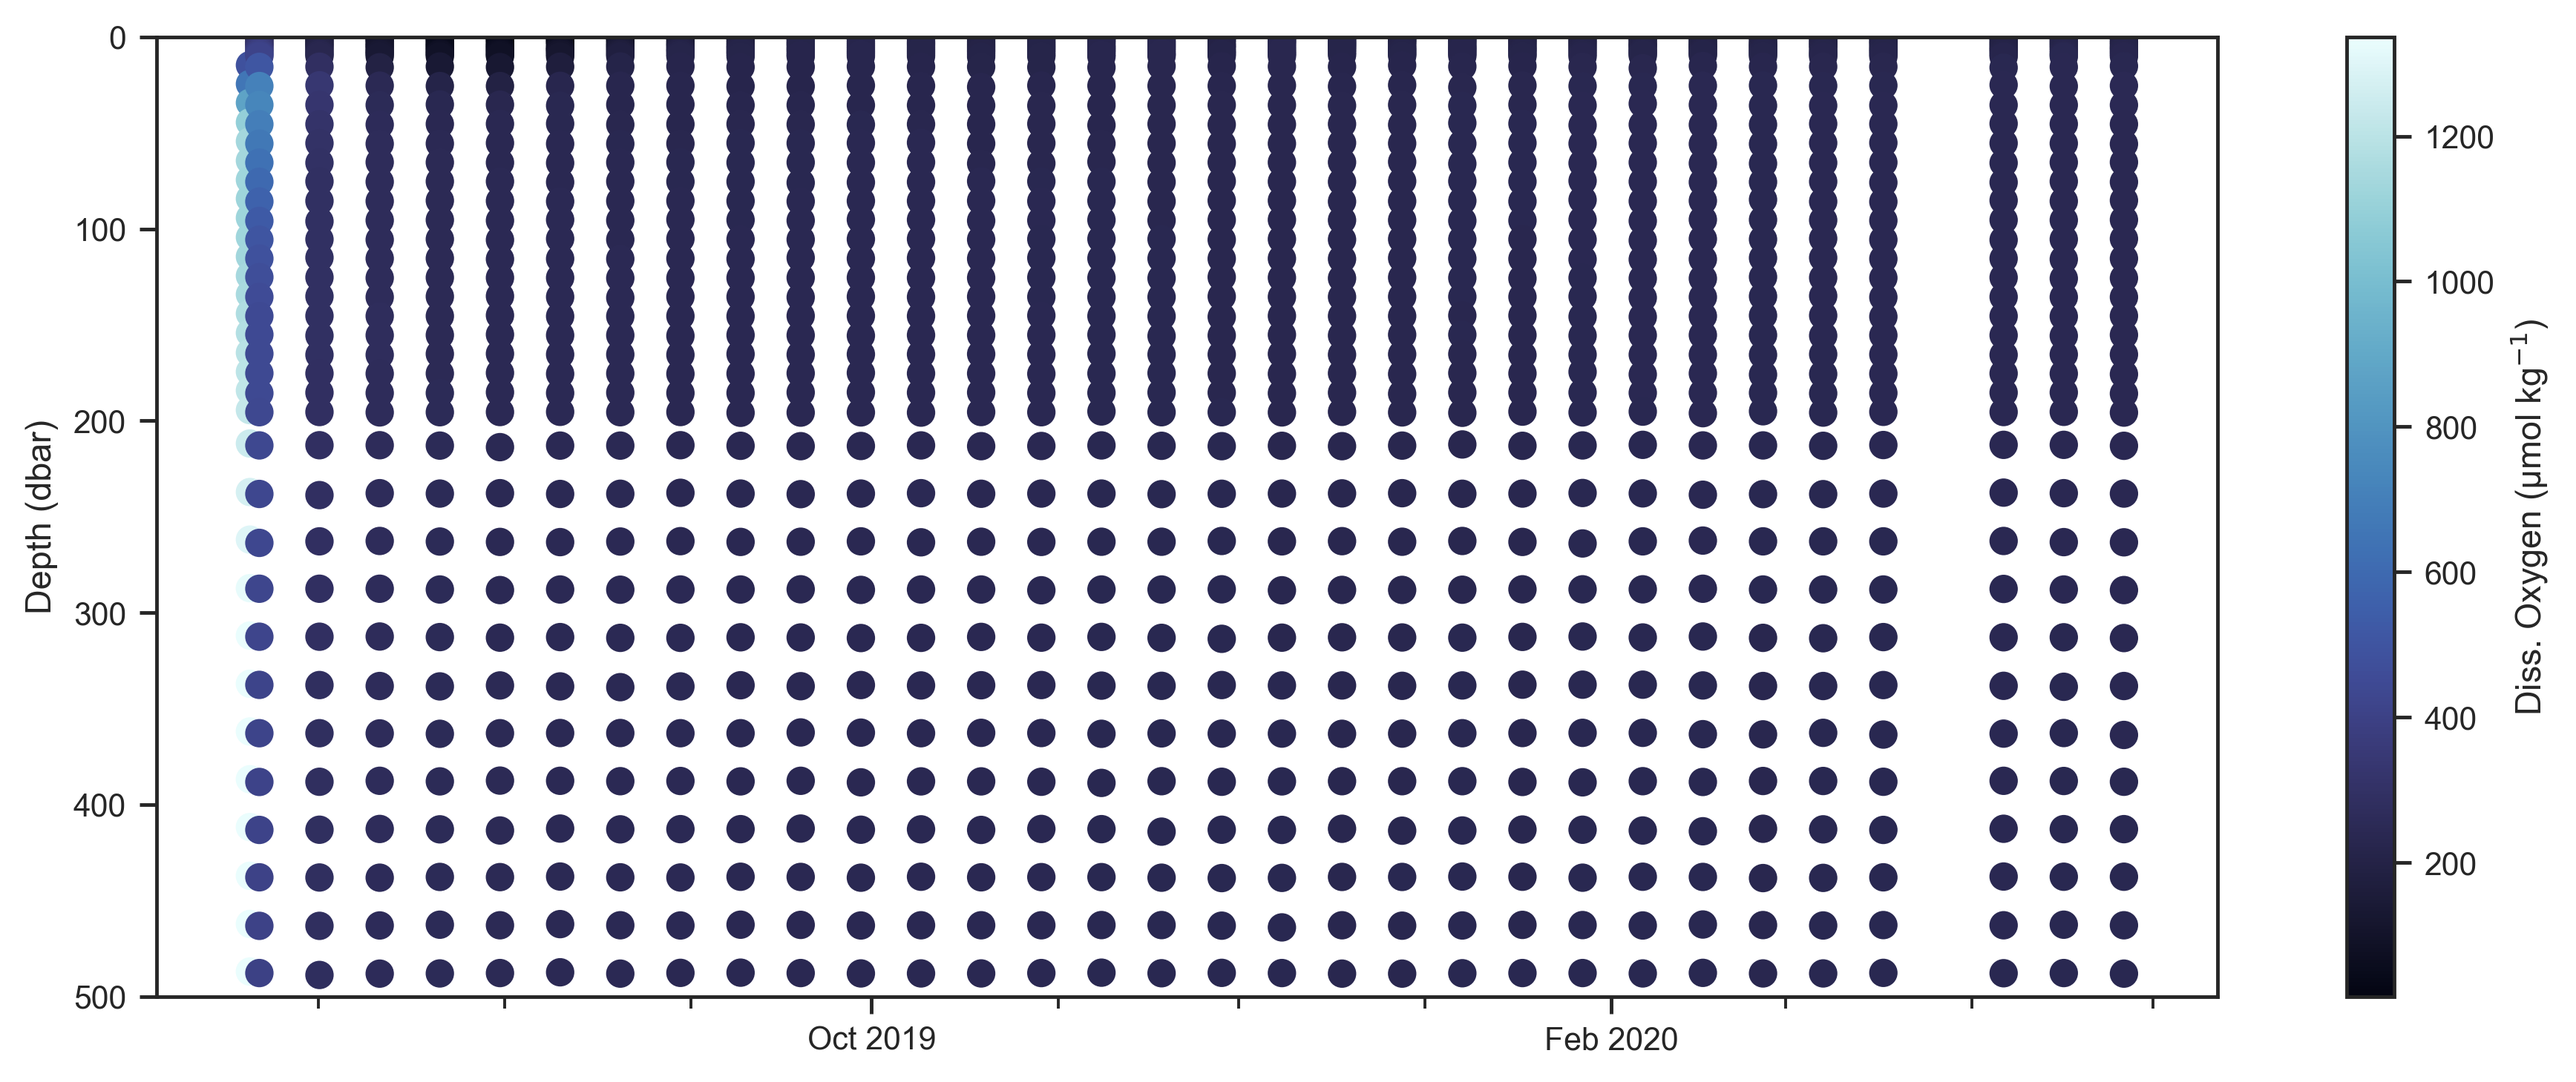
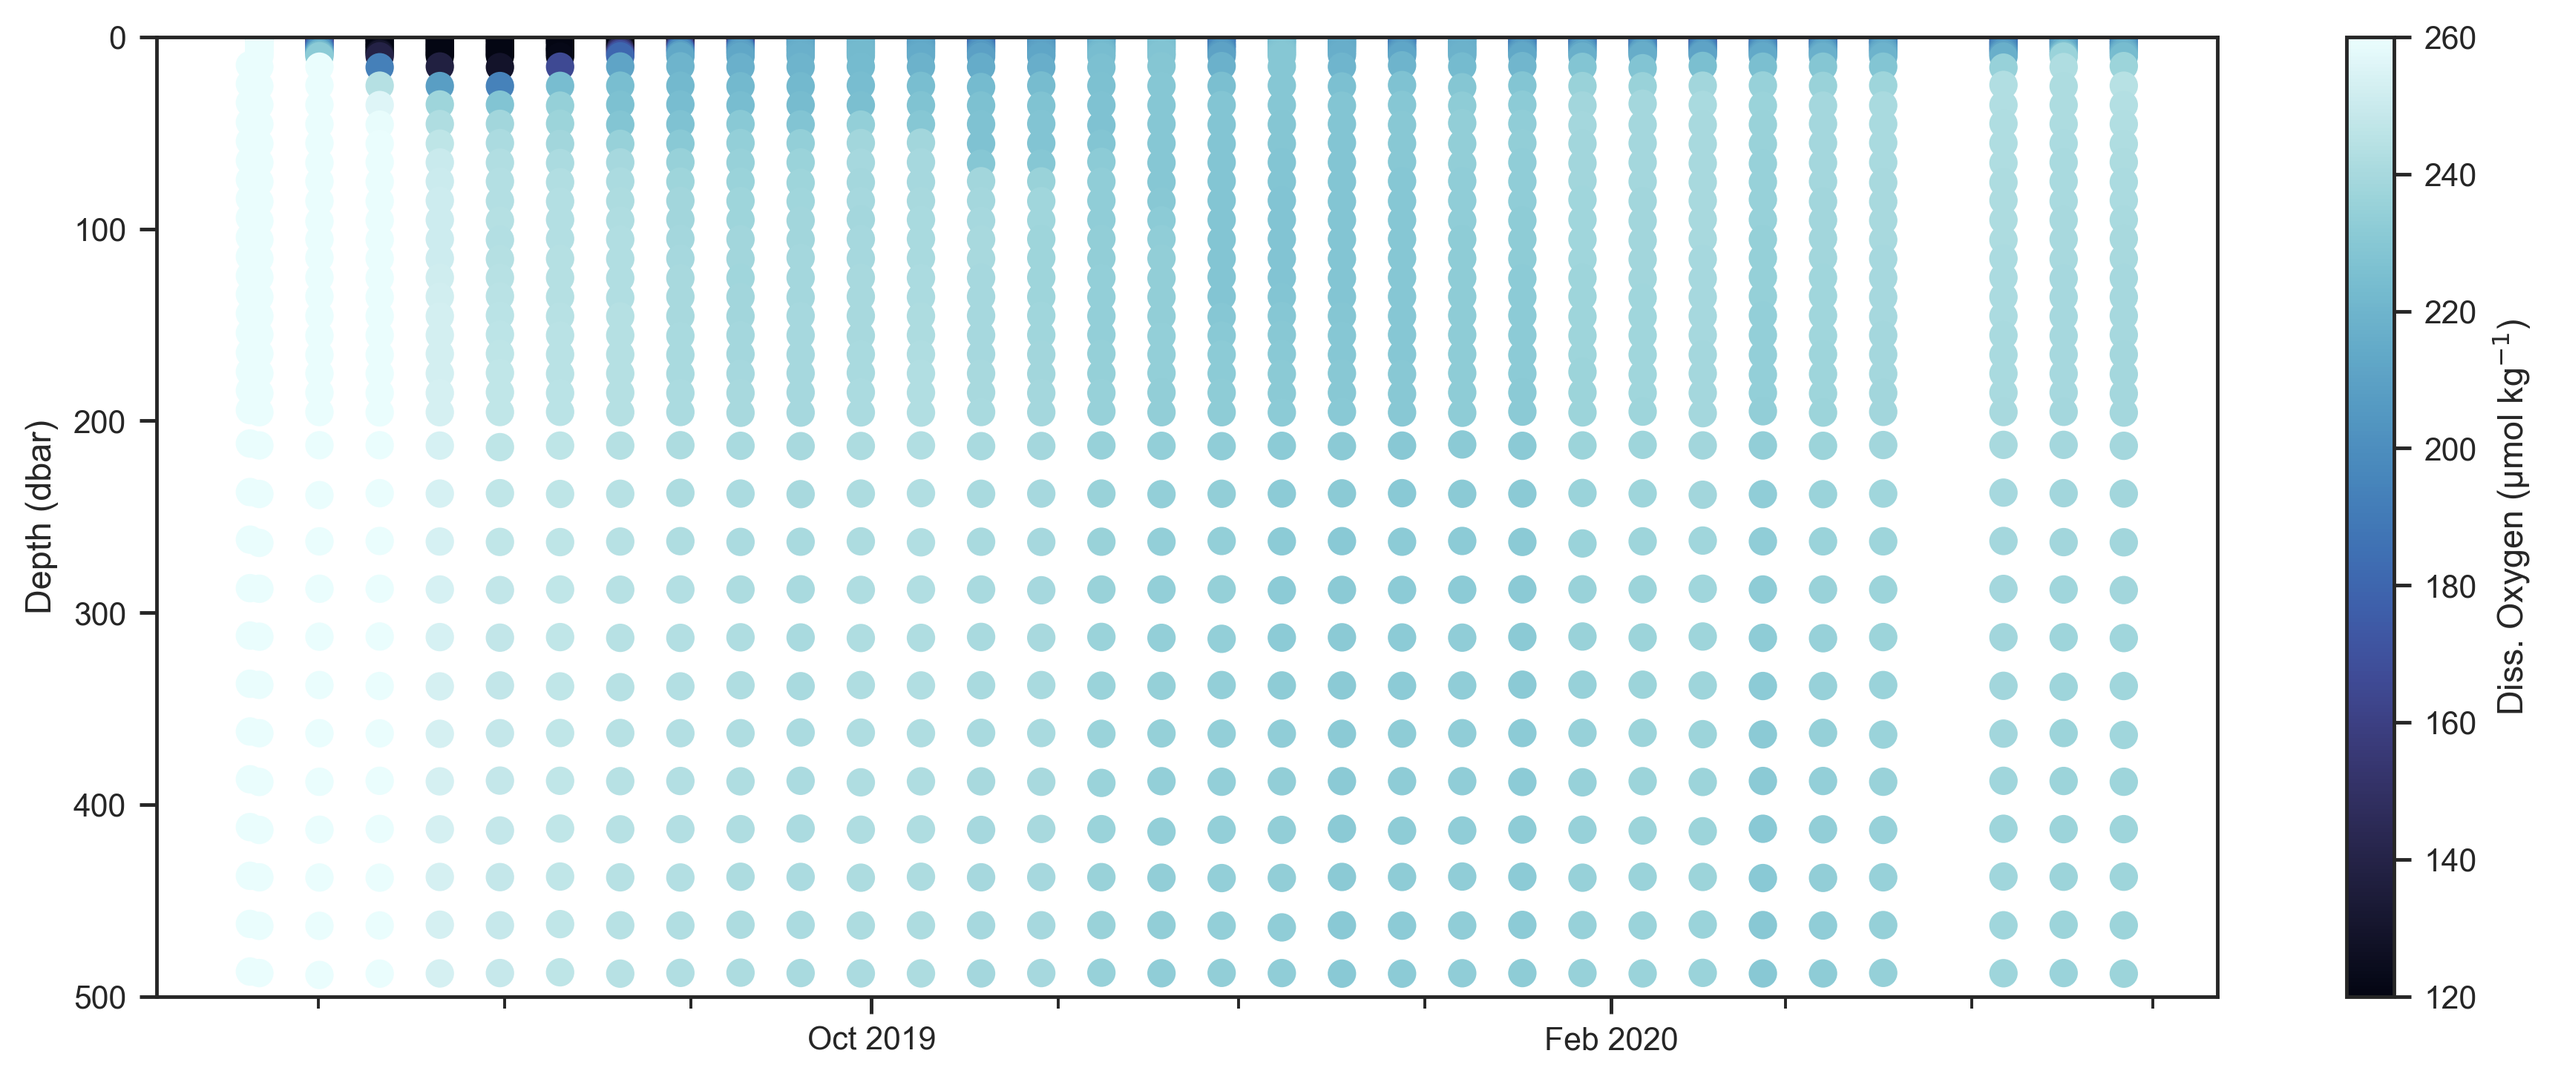
colorscale handling change

diff --git a/bgcArgo/fplt.py b/bgcArgo/fplt.py
@@ -142,7 +142,7 @@ def gainplot(sdn, float_data, ref_data, gainvals, ref):
 
     return g
 
-def var_cscatter(df, varname='DOXY', cmap=None, ax=None, ylim=(0,2000), clabel=None, **kwargs):
+def var_cscatter(df, varname='DOXY', cmap=None, ax=None, ylim=(0,2000), clabel=None, vmin=None, vmax=None, **kwargs):
     # define colormaps
     if cmocean_flag:
         color_maps = dict(
@@ -194,7 +194,6 @@ def var_cscatter(df, varname='DOXY', cmap=None, ax=None, ylim=(0,2000), clabel=N
 
     if cmap is None:
         cmap = color_maps[varname]
-
     
     if ax is None:
         fig, ax = plt.subplots()
@@ -203,7 +202,13 @@ def var_cscatter(df, varname='DOXY', cmap=None, ax=None, ylim=(0,2000), clabel=N
 
     df = df.loc[df.PRES < ylim[1]+50]
 
-    im = ax.scatter(df.SDN, df.PRES, c=df[varname], s=50, cmap=cmap, vmin=1.05*df[varname].min(), vmax=0.95*df[varname].max(), **kwargs)
+    if vmin is None:
+        vmin = 1.05*df[varname].min()
+
+    if vmax is None:
+        vmax = 0.95*df[varname].max()
+
+    im = ax.scatter(df.SDN, df.PRES, c=df[varname], s=50, cmap=cmap, vmin=vmin, vmax=vmax, **kwargs)
     cb = plt.colorbar(im, ax=ax)
     cb.set_label(clabel)
     ax.set_ylim(ylim)
